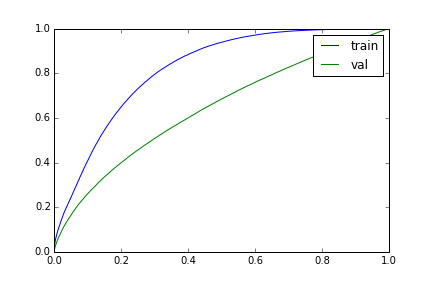
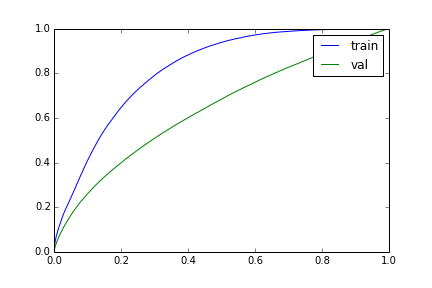
upload

diff --git a/ensemble.md b/ensemble.md
@@ -1,8 +1,23 @@
-![](roc_curves.png?raw=true)train: 	 AUC = 0.81912 	 Accuracy = 0.83551 	 Precision = 0.15050 	 Recall = 0.01518
-val: 	 AUC = 0.64113 	 Accuracy = 0.83591 	 Precision = 0.14950 	 Recall = 0.01516
-Feature ranking:1. submission.csv (0.323188)
-2. submission2.csv (0.171244)
-3. sumb.inclass.prob (0.155878)
-4. test_GDC_10_8.csv (0.136193)
-5. test_RFC_1000_13.csv (0.123675)
-6. test_RFC_1000_9.csv (0.089823)
+![](roc_curves.png?raw=true)
+
+![](roc_curves.png?raw=true)
+
+#Ensemble performance| Dataset | AUC | Accuracy | Precision@10k | Recall@10k |
+|:---|:---|:---|:---|:---|:---||train | 0.81831 | 0.83565 | 0.15500 | 0.01564|
+|val | 0.64129 | 0.83608 | 0.15500 | 0.01572|
+
+
+#Feature ranking:
+
+1. submission.csv (0.314072)
+
+2. submission2.csv (0.171859)
+
+3. sumb.inclass.prob (0.164113)
+
+4. test_GDC_10_8.csv (0.136898)
+
+5. test_RFC_1000_13.csv (0.124052)
+
+6. test_RFC_1000_9.csv (0.089005)
+

diff --git a/table.md b/table.md
@@ -1,8 +1,8 @@
 | Submission | Score |
 | :---: | ---: |
-| test_RFC_1000_13.csv | 155877594 |
-| submission2.csv | 323187884 |
-| test_GDC_10_8.csv | 89823191 |
-| sumb.inclass.prob | 171244197 |
-| submission.csv | 136192584 |
-| test_RFC_1000_9.csv | 123674548 |
+| test_RFC_1000_13.csv | 164113375 |
+| submission2.csv | 314072327 |
+| test_GDC_10_8.csv | 89004645 |
+| sumb.inclass.prob | 171858867 |
+| submission.csv | 136898335 |
+| test_RFC_1000_9.csv | 124052448 |
